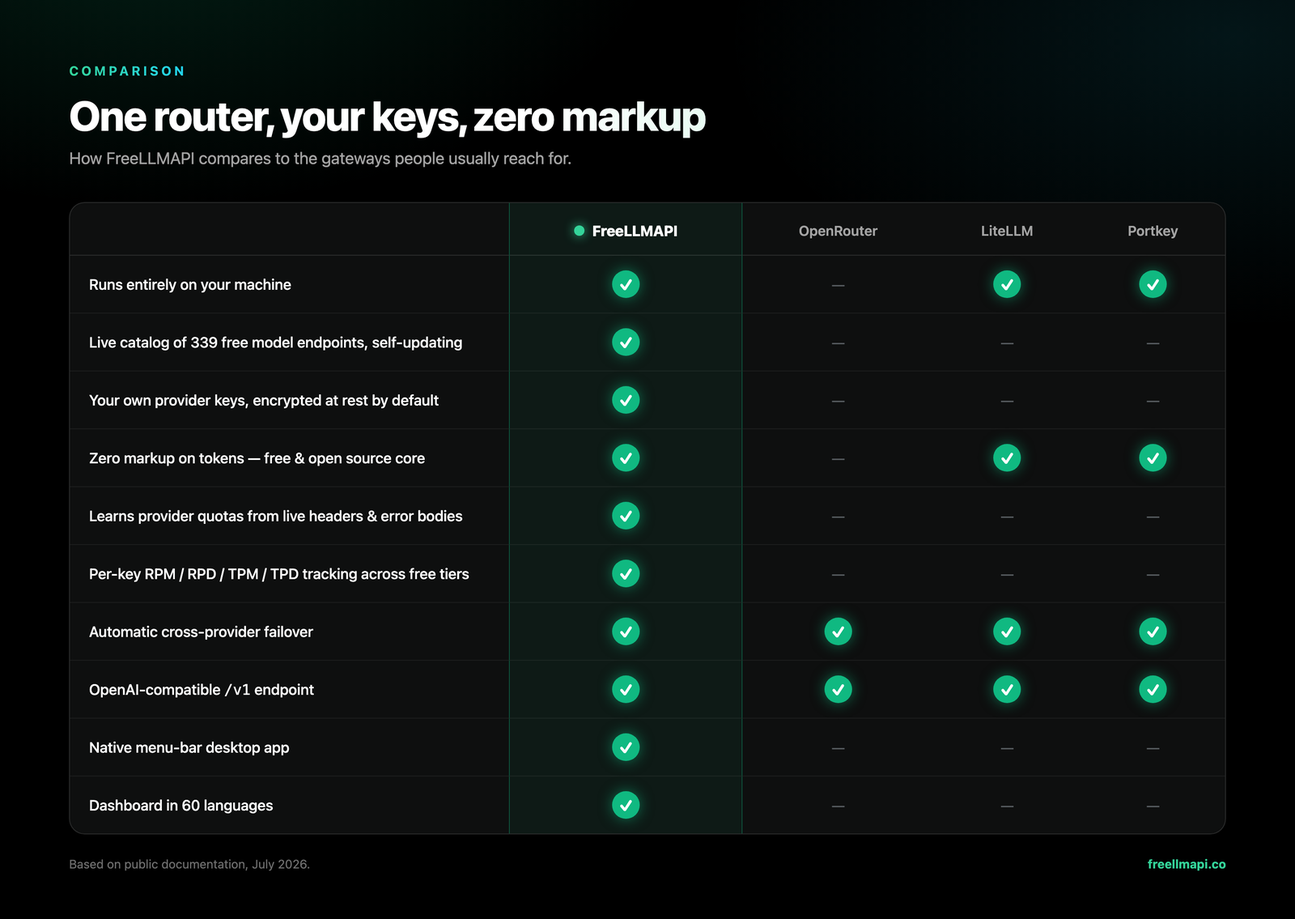
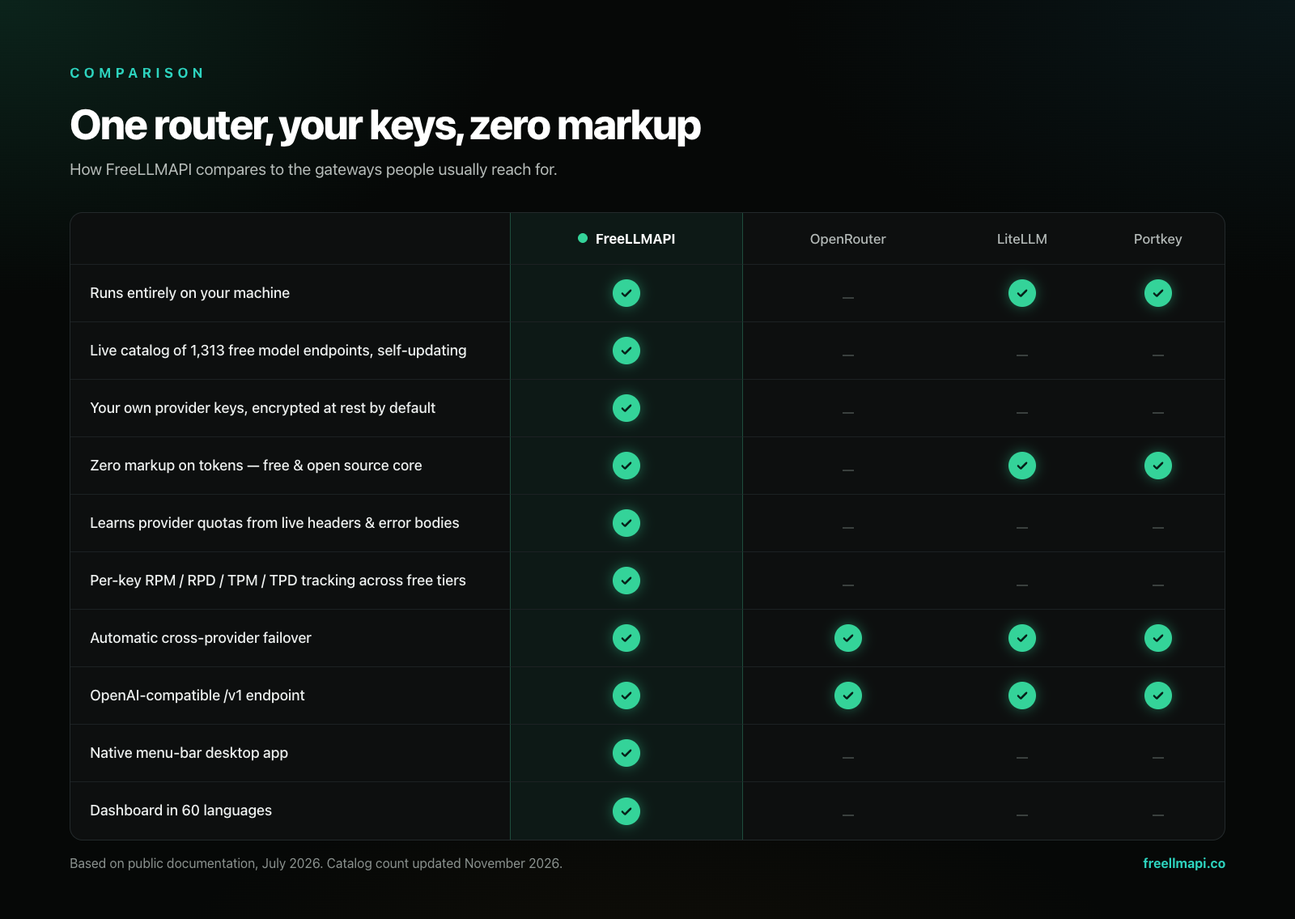
docs: refresh catalog numbers to 10.1B tokens, 87 providers, 1,313 endpoints (#1919)
Updates the headline figures in the README (all five languages), the
architecture overview, and the four README graphics plus their Turkish
versions, from the live catalog 2026.11.12:

- 10.1 billion tokens/month: sum of every live-catalog row's listed
  monthlyTokenBudget (same per-endpoint method as the earlier 4B and 7.4B
  figures).
- 87 providers / 1,313 endpoints: /v1/meta live.inventory, matching the
  freellmapi.co homepage tiles.
- 736 model families (grouped by model name across all entry types).

Also fixes the stale 28-provider / ~4B / 339-endpoint figures that were
still baked into features.png, comparison.png and router-flow.png.

diff --git a/README.ru.md b/README.ru.md
@@ -2,7 +2,7 @@
 
 # FreeLLMAPI
 
-**7,4 миллиарда токенов в месяц. 34 бесплатных LLM-провайдера. 635 бесплатных модельных эндпоинтов. Один OpenAI-совместимый API.**
+**10,1 миллиарда токенов в месяц. 87 бесплатных LLM-провайдеров. 1313 бесплатных модельных эндпоинтов. Один OpenAI-совместимый API.**
 
 Объединяйте бесплатные тарифы десятков провайдеров, а также собственные OpenAI-совместимые эндпоинты для чата, эмбеддингов, генерации изображений и работы с аудио через единый API `/v1`. Ключи хранятся в зашифрованном виде. Маршрутизатор выбирает наиболее подходящую доступную модель, при ограничении запросов переключается на другого провайдера и учитывает расход по каждому ключу, помогая соблюдать бесплатные квоты.
 
@@ -13,7 +13,7 @@
 [![Docker image](https://img.shields.io/badge/ghcr.io-freellmapi-2496ED?logo=docker&logoColor=white)](https://github.com/tashfeenahmed/freellmapi/pkgs/container/freellmapi)
 [![Ask DeepWiki](https://img.shields.io/badge/DeepWiki-Ask-blue)](https://deepwiki.com/tashfeenahmed/freellmapi)
 
-**[freellmapi.co](https://freellmapi.co/?utm_source=github&utm_medium=readme&utm_campaign=repository&utm_content=readme_top)** · полный каталог: 474 семейства моделей и 635 бесплатных эндпоинтов
+**[freellmapi.co](https://freellmapi.co/?utm_source=github&utm_medium=readme&utm_campaign=repository&utm_content=readme_top)** · полный каталог: 736 семейств моделей и 1313 бесплатных эндпоинтов
 
 [English](README.md) · [Türkçe](README.tr.md) · [简体中文](README.zh-cn.md) · **Русский** · [O'zbekcha](README.uz.md)
 
@@ -61,13 +61,13 @@
 
 ## Зачем нужен FreeLLMAPI
 
-Крупные разработчики ИИ предлагают бесплатные тарифы: иногда это миллионы токенов в месяц и тысячи запросов в день. У каждого отдельно квота невелика, но в совокупности получается около **7,4 миллиарда токенов в месяц** для **474 семейств моделей и 635 эндпоинтов провайдеров**, от небольших быстрых моделей до более мощных.
+Крупные разработчики ИИ предлагают бесплатные тарифы: иногда это миллионы токенов в месяц и тысячи запросов в день. У каждого отдельно квота невелика, но в совокупности получается около **10,1 миллиарда токенов в месяц** для **736 семейств моделей и 1313 эндпоинтов провайдеров**, от небольших быстрых моделей до более мощных.
 
-Управлять таким количеством сервисов вручную неудобно: 34 SDK, 34 набора ограничений и столько же потенциальных точек отказа. FreeLLMAPI объединяет всё в одном OpenAI-совместимом API. Достаточно направить клиентскую библиотеку OpenAI на локальный сервер, и запросы будут распределяться между провайдерами, для которых вы добавили ключи.
+Управлять таким количеством сервисов вручную неудобно: 87 SDK, 87 наборов ограничений и столько же потенциальных точек отказа. FreeLLMAPI объединяет всё в одном OpenAI-совместимом API. Достаточно направить клиентскую библиотеку OpenAI на локальный сервер, и запросы будут распределяться между провайдерами, для которых вы добавили ключи.
 
 Бесплатные тарифы постоянно меняются: модели появляются и исчезают, ограничения корректируются. FreeLLMAPI автоматически загружает подписанный каталог с [freellmapi.co](https://freellmapi.co), поэтому данные обновляются без `git pull`. О различиях в скорости обновления рассказывается в разделе [Premium и оперативный каталог](#premium-и-оперативный-каталог).
 
-![Объединение бесплатных тарифов: около 7,4 млрд токенов в месяц от 34 провайдеров](repo-assets/free-tier.png)
+![Объединение бесплатных тарифов: около 10,1 млрд токенов в месяц от 87 провайдеров](repo-assets/free-tier.png)
 
 ## Поддерживаемые провайдеры
 
@@ -95,7 +95,7 @@
 </tr>
 </table>
 
-<i>… и ещё 22 бесплатных провайдера</i>
+<i>… и ещё 75 бесплатных провайдеров</i>
 
 </div>
 
@@ -213,7 +213,7 @@ FreeLLMAPI рассчитан прежде всего на локальное и
 
 Маршрутизатор поддерживает каталог моделей в актуальном состоянии: дважды в день скачивает подписанный каталог с [freellmapi.co](https://freellmapi.co) и обновляет локальную БД новыми моделями, изменениями квот и исправлениями особенностей провайдеров. Ваши настройки включения/отключения моделей и пользовательские провайдеры остаются нетронутыми. Каждая загрузка перед применением проверяется закреплённым ключом Ed25519.
 
-В каталоге представлены **34 провайдера**, **474 семейства моделей**, **635 бесплатных сочетаний провайдер/модель** (584 для чата, 41 для эмбеддингов, 7 для транскрибации и 3 для видео), а заявленная общая бесплатная ёмкость составляет примерно **7,4 миллиарда токенов в месяц**. Полный список: **[freellmapi.co/models](https://freellmapi.co/models.html)**.
+В каталоге представлены **87 провайдеров**, **736 семейств моделей**, **1313 бесплатных сочетаний провайдер/модель** (1137 для чата, 29 для изображений, 41 для аудио, 68 для эмбеддингов, 19 для транскрибации, 6 для видео и 13 для принятия решений), а заявленная общая бесплатная ёмкость составляет примерно **10,1 миллиарда токенов в месяц**. Полный список: **[freellmapi.co/models](https://freellmapi.co/models.html)**.
 
 Бесплатные установки получают тот же подписанный каталог, но из ежемесячного снимка. Новая модель появляется там спустя 30 дней после оперативного каталога, поэтому бесплатная версия сейчас отстаёт примерно на 303 модели. Ничего не отключается и не истекает: обновления просто приходят позже.
 

diff --git a/README.tr.md b/README.tr.md
@@ -2,7 +2,7 @@
 
 # FreeLLMAPI
 
-**Ayda 7,4 milyar token. 34 ücretsiz LLM sağlayıcısı. 635 ücretsiz model uç noktası. OpenAI uyumlu tek bir uç nokta.**
+**Ayda 10,1 milyar token. 87 ücretsiz LLM sağlayıcısı. 1.313 ücretsiz model uç noktası. OpenAI uyumlu tek bir uç nokta.**
 
 Onlarca sağlayıcının ücretsiz kullanım kotalarını ve özel OpenAI uyumlu sohbet, gömme (embedding), görüntü ve ses uç noktalarını tek bir `/v1` API’sinde birleştirin. Anahtarlar şifreli saklanır. Yönlendirici, her istek için kullanılabilir en iyi modeli seçer; bir sağlayıcı hız sınırına ulaştığında sıradakine geçer ve ücretsiz kotaları aşmamak için kullanımı anahtar bazında izler.
 
@@ -13,7 +13,7 @@ Onlarca sağlayıcının ücretsiz kullanım kotalarını ve özel OpenAI uyumlu
 [![Docker image](https://img.shields.io/badge/ghcr.io-freellmapi-2496ED?logo=docker&logoColor=white)](https://github.com/tashfeenahmed/freellmapi/pkgs/container/freellmapi)
 [![Ask DeepWiki](https://img.shields.io/badge/DeepWiki-Ask-blue)](https://deepwiki.com/tashfeenahmed/freellmapi)
 
-**[freellmapi.co](https://freellmapi.co/?utm_source=github&utm_medium=readme&utm_campaign=repository&utm_content=readme_top)** · tüm kataloğa göz atın: 474 model ailesi, 635 ücretsiz uç nokta
+**[freellmapi.co](https://freellmapi.co/?utm_source=github&utm_medium=readme&utm_campaign=repository&utm_content=readme_top)** · tüm kataloğa göz atın: 736 model ailesi, 1.313 ücretsiz uç nokta
 
 [English](README.md) · **Türkçe** · [简体中文](README.zh-cn.md) · [Русский](README.ru.md) · [O'zbekcha](README.uz.md)
 
@@ -60,13 +60,13 @@ Yönlendiriciniz model kataloğunu imzalı bir akıştan kendisi günceller: yen
 
 ## Neden geliştirildi?
 
-Günümüzde önde gelen yapay zekâ laboratuvarları ayda birkaç milyon token, günde birkaç bin istek sunan ücretsiz planlar sağlıyor. Tek başlarına sınırlı olsalar da bir araya geldiklerinde, küçük ve hızlı modellerden oldukça yetenekli modellere kadar **474 model ailesi / 635 sağlayıcı uç noktası** üzerinden **ayda yaklaşık 7,4 milyar token** çıkarım kapasitesine ulaşıyorlar.
+Günümüzde önde gelen yapay zekâ laboratuvarları ayda birkaç milyon token, günde birkaç bin istek sunan ücretsiz planlar sağlıyor. Tek başlarına sınırlı olsalar da bir araya geldiklerinde, küçük ve hızlı modellerden oldukça yetenekli modellere kadar **736 model ailesi / 1.313 sağlayıcı uç noktası** üzerinden **ayda yaklaşık 10,1 milyar token** çıkarım kapasitesine ulaşıyorlar.
 
-Bunları elle birleştirmek zahmetli: otuz dört farklı SDK, otuz dört farklı hız sınırı ve bir isteğin başarısız olabileceği otuz dört ayrı yer. FreeLLMAPI hepsini OpenAI uyumlu tek bir uç noktada toplar. Herhangi bir OpenAI istemci kitaplığını yerel sunucunuza yönlendirin; istekler, anahtar eklediğiniz sağlayıcılar arasında istemciye yansımadan yönlendirilir.
+Bunları elle birleştirmek zahmetli: seksen yedi farklı SDK, seksen yedi farklı hız sınırı ve bir isteğin başarısız olabileceği seksen yedi ayrı yer. FreeLLMAPI hepsini OpenAI uyumlu tek bir uç noktada toplar. Herhangi bir OpenAI istemci kitaplığını yerel sunucunuza yönlendirin; istekler, anahtar eklediğiniz sağlayıcılar arasında istemciye yansımadan yönlendirilir.
 
 Ücretsiz planlar da her hafta değişiyor: sağlayıcılar yeni modeller çıkarıyor, eskilerini kaldırıyor ve kotaları haber vermeden değiştiriyor. FreeLLMAPI bunları sizin için takip eder. Yönlendirici, imzalı model kataloğunu [freellmapi.co](https://freellmapi.co) üzerinden kendisi alır; kurulumunuz `git pull` gerekmeden güncel kalır. Güncellemelerin ne kadar hızlı geldiği için [Premium (canlı katalog)](#premium-live-catalog) bölümüne bakın.
 
-![Ücretsiz planlar bir arada — 34 sağlayıcıdan ayda yaklaşık 7,4 milyar token](repo-assets/i18n/tr/free-tier.png)
+![Ücretsiz planlar bir arada — 87 sağlayıcıdan ayda yaklaşık 10,1 milyar token](repo-assets/i18n/tr/free-tier.png)
 
 <a id="supported-providers"></a>
 
@@ -96,7 +96,7 @@ Bunları elle birleştirmek zahmetli: otuz dört farklı SDK, otuz dört farklı
 </tr>
 </table>
 
-<i>… ve 22 ücretsiz sağlayıcı daha</i>
+<i>… ve 75 ücretsiz sağlayıcı daha</i>
 
 </div>
 
@@ -232,7 +232,7 @@ Tam dil listesi [`client/src/i18n/locale-config.ts`](./client/src/i18n/locale-co
 
 Yönlendirici model kataloğunu kendisi güncel tutar: günde iki kez [freellmapi.co](https://freellmapi.co) üzerinden imzalı kataloğu alır, yeni modelleri, kota değişikliklerini ve sağlayıcılara özgü uyumluluk düzeltmelerini yerel veritabanınıza uygular. Etkinleştirme/devre dışı bırakma seçimleriniz ve özel sağlayıcılarınız değişmez. Her indirme uygulanmadan önce sabitlenmiş Ed25519 anahtarıyla doğrulanır.
 
-Katalog şu anda **34 sağlayıcı**, **474 model ailesi**, **635 ücretsiz sağlayıcı/model uç noktası** (584 sohbet, 41 gömme, 7 ses dökümü, 3 video) ve listelenen ücretsiz planlarda **ayda yaklaşık 7,4 milyar token** kapasitesini izler. Tam liste: **[freellmapi.co/models](https://freellmapi.co/models.html)**.
+Katalog şu anda **87 sağlayıcı**, **736 model ailesi**, **1.313 ücretsiz sağlayıcı/model uç noktası** (1.137 sohbet, 29 görsel, 41 ses, 68 gömme, 19 ses dökümü, 6 video, 13 karar) ve listelenen ücretsiz planlarda **ayda yaklaşık 10,1 milyar token** kapasitesini izler. Tam liste: **[freellmapi.co/models](https://freellmapi.co/models.html)**.
 
 Ücretsiz kurulumlar aynı imzalı kataloğun aylık anlık görüntüsünü alır. Bir model, canlı akışa eklendikten 30 gün sonra bu görüntüye katılır; bu nedenle ücretsiz sürüm şu anda yaklaşık 303 model geridedir. Hiçbir şeyin süresi dolmaz ve hiçbir özellik kısıtlanmaz; modeller yalnızca daha geç gelir.
 

diff --git a/README.uz.md b/README.uz.md
@@ -2,7 +2,7 @@
 
 # FreeLLMAPI
 
-**Oyiga 7,4 milliard token. 34 ta bepul LLM provayderi. 635 ta bepul model endpointi. OpenAI bilan mos bitta endpoint.**
+**Oyiga 10,1 milliard token. 87 ta bepul LLM provayderi. 1313 ta bepul model endpointi. OpenAI bilan mos bitta endpoint.**
 
 O'nlab provayderlarning bepul tariflarini, shuningdek, OpenAI bilan mos keladigan istalgan chat, embedding, rasm va audio endpointlaringizni bitta `/v1` API orqasida birlashtiring. Kalitlar shifrlangan holda saqlanadi. Router har bir so'rov uchun eng yaxshi mavjud modelni tanlaydi, provayder limitga yetganda keyingisiga o'tadi va har bir kalitning sarfini kuzatib boradi, shunda siz hech bir bepul tarif limitidan oshib ketmaysiz.
 
@@ -13,7 +13,7 @@ O'nlab provayderlarning bepul tariflarini, shuningdek, OpenAI bilan mos keladiga
 [![Docker image](https://img.shields.io/badge/ghcr.io-freellmapi-2496ED?logo=docker&logoColor=white)](https://github.com/tashfeenahmed/freellmapi/pkgs/container/freellmapi)
 [![Ask DeepWiki](https://img.shields.io/badge/DeepWiki-Ask-blue)](https://deepwiki.com/tashfeenahmed/freellmapi)
 
-**[freellmapi.co](https://freellmapi.co/?utm_source=github&utm_medium=readme&utm_campaign=repository&utm_content=readme_top)** · to'liq katalogni ko'ring: 474 ta model oilasi, 635 ta bepul endpoint
+**[freellmapi.co](https://freellmapi.co/?utm_source=github&utm_medium=readme&utm_campaign=repository&utm_content=readme_top)** · to'liq katalogni ko'ring: 736 ta model oilasi, 1313 ta bepul endpoint
 
 [English](README.md) · [Türkçe](README.tr.md) · [简体中文](README.zh-cn.md) · [Русский](README.ru.md) · **O'zbekcha**
 
@@ -60,13 +60,13 @@ Routeringiz model katalogini imzolangan manbadan o'zi yangilaydi: yangi bepul mo
 
 ## Bu loyiha nega kerak
 
-Bugun har bir jiddiy AI laboratoriyasi bepul tarif taklif qiladi: oyiga bir necha million token, kuniga bir necha ming so'rov. Alohida olinganda har bir tarif o'yinchoqdek gap. Lekin ularni birlashtirsangiz, oyiga taxminan **7,4 milliard token** ishchi inference quvvati hosil bo'ladi. Bu kichik va tezkor modellardan tortib ancha qobiliyatlilarigacha bo'lgan **474 ta model oilasi / 635 ta provayder endpointi**ni qamrab oladi.
+Bugun har bir jiddiy AI laboratoriyasi bepul tarif taklif qiladi: oyiga bir necha million token, kuniga bir necha ming so'rov. Alohida olinganda har bir tarif o'yinchoqdek gap. Lekin ularni birlashtirsangiz, oyiga taxminan **10,1 milliard token** ishchi inference quvvati hosil bo'ladi. Bu kichik va tezkor modellardan tortib ancha qobiliyatlilarigacha bo'lgan **736 ta model oilasi / 1313 ta provayder endpointi**ni qamrab oladi.
 
-Muammo shundaki, ularni qo'lda birlashtirish juda og'ir: o'ttiz to'rtta turli SDK, o'ttiz to'rtta turli limit, so'rov xato berishi mumkin bo'lgan o'ttiz to'rtta joy. FreeLLMAPI bularning hammasini OpenAI bilan mos bitta endpointga jamlaydi. Istalgan OpenAI klient kutubxonasini lokal serveringizga yo'naltiring, u esa so'rovlarni siz kalit qo'shgan provayderlar bo'ylab sezdirmasdan taqsimlaydi.
+Muammo shundaki, ularni qo'lda birlashtirish juda og'ir: sakson yettita turli SDK, sakson yettita turli limit, so'rov xato berishi mumkin bo'lgan sakson yettita joy. FreeLLMAPI bularning hammasini OpenAI bilan mos bitta endpointga jamlaydi. Istalgan OpenAI klient kutubxonasini lokal serveringizga yo'naltiring, u esa so'rovlarni siz kalit qo'shgan provayderlar bo'ylab sezdirmasdan taqsimlaydi.
 
 Bundan tashqari, bepul tariflar manzarasi har hafta o'zgaradi: provayderlar ogohlantirmasdan model chiqaradi, eskilarini o'chiradi va limitlarni o'zgartiradi. FreeLLMAPI bularning barchasini siz uchun kuzatib boradi. Router imzolangan model katalogini [freellmapi.co](https://freellmapi.co) dan o'zi tortib oladi, shuning uchun o'rnatmangiz `git pull` qilmasdan ham dolzarb bo'lib turadi. Qanchalik tez yangilanishi haqida [Premium (jonli katalog)](#premium-jonli-katalog) bo'limida o'qing.
 
-![Bepul tariflar birlashtirilganda: 34 ta provayder bo'ylab oyiga ~7,4 mlrd token bepul inference](repo-assets/free-tier.png)
+![Bepul tariflar birlashtirilganda: 87 ta provayder bo'ylab oyiga ~10,1 mlrd token bepul inference](repo-assets/free-tier.png)
 
 ## Qo'llab-quvvatlanadigan provayderlar
 
@@ -94,7 +94,7 @@ Bundan tashqari, bepul tariflar manzarasi har hafta o'zgaradi: provayderlar ogoh
 </tr>
 </table>
 
-<i>… va yana 22 ta bepul provayder</i>
+<i>… va yana 75 ta bepul provayder</i>
 
 </div>
 
@@ -236,9 +236,10 @@ qo'llaydi. Siz o'zingiz yoqqan yoki o'chirgan modellarga va o'z provayderlaringi
 qachon tegilmaydi. Har bir yuklab olingan fayl qo'llanishidan oldin qat'iy belgilangan
 Ed25519 kaliti bilan tekshiriladi.
 
-Hozir katalog **34 ta provayder**, **474 ta model oilasi**, **635 ta bepul provayder/model
-endpointi** (584 ta chat, 41 ta embedding, 7 ta transkripsiya, 3 ta video) va ro'yxatga
-olingan bepul tariflardagi oyiga taxminan **7,4 milliard token** quvvatni kuzatadi. To'liq
+Hozir katalog **87 ta provayder**, **736 ta model oilasi**, **1313 ta bepul provayder/model
+endpointi** (1137 ta chat, 29 ta rasm, 41 ta audio, 68 ta embedding, 19 ta transkripsiya,
+6 ta video, 13 ta qaror) va ro'yxatga olingan bepul tariflardagi oyiga taxminan
+**10,1 milliard token** quvvatni kuzatadi. To'liq
 ro'yxatni **[freellmapi.co/models](https://freellmapi.co/models.html)** da ko'ring.
 
 Bepul o'rnatmalar ham xuddi shu imzolangan katalogni oladi, lekin oylik snapshotdan: model

diff --git a/README.zh-cn.md b/README.zh-cn.md
@@ -2,7 +2,7 @@
 
 # FreeLLMAPI
 
-**每月 74 亿词元。34 家免费 LLM 提供方。635 个免费模型端点。一个 OpenAI 兼容端点。**
+**每月 101 亿词元。87 家免费 LLM 提供方。1,313 个免费模型端点。一个 OpenAI 兼容端点。**
 
 把几十家提供方的免费额度，连同任意自建的 OpenAI 兼容聊天、嵌入、图像和音频端点，一起聚合到单个 `/v1` API 之后。密钥加密存储。路由器为每个请求挑选当前可用的最佳模型，某家提供方触发限流时自动转移到下一家，并按密钥跟踪用量，让你始终待在各家的免费额度之内。
 
@@ -13,7 +13,7 @@
 [![Docker image](https://img.shields.io/badge/ghcr.io-freellmapi-2496ED?logo=docker&logoColor=white)](https://github.com/tashfeenahmed/freellmapi/pkgs/container/freellmapi)
 [![Ask DeepWiki](https://img.shields.io/badge/DeepWiki-Ask-blue)](https://deepwiki.com/tashfeenahmed/freellmapi)
 
-**[freellmapi.co](https://freellmapi.co/?utm_source=github&utm_medium=readme&utm_campaign=repository&utm_content=readme_top)** · 浏览完整目录：474 个模型系列，635 个免费端点
+**[freellmapi.co](https://freellmapi.co/?utm_source=github&utm_medium=readme&utm_campaign=repository&utm_content=readme_top)** · 浏览完整目录：736 个模型系列，1,313 个免费端点
 
 [English](README.md) · [Türkçe](README.tr.md) · **简体中文** · [Русский](README.ru.md) · [O'zbekcha](README.uz.md)
 
@@ -54,13 +54,13 @@
 
 ## 为什么会有这个项目
 
-如今每家正经的 AI 实验室都提供免费额度：每月几百万词元，每天几千次请求。单独看，每一份都只是个玩具。叠加起来，它们合计约 **每月 74 亿词元** 的可用推理能力，覆盖 **474 个模型系列 / 635 个提供方端点**，从小而快的到相当能打的都有。
+如今每家正经的 AI 实验室都提供免费额度：每月几百万词元，每天几千次请求。单独看，每一份都只是个玩具。叠加起来，它们合计约 **每月 101 亿词元** 的可用推理能力，覆盖 **736 个模型系列 / 1,313 个提供方端点**，从小而快的到相当能打的都有。
 
-问题在于手工叠加太痛苦：三十四套不同的 SDK，三十四种不同的限流规则，三十四个请求可能失败的地方。FreeLLMAPI 把这些收拢成一个 OpenAI 兼容端点。把任意 OpenAI 客户端库指向你的本地服务，它就会在你添加过密钥的提供方之间透明路由。
+问题在于手工叠加太痛苦：八十七套不同的 SDK，八十七种不同的限流规则，八十七个请求可能失败的地方。FreeLLMAPI 把这些收拢成一个 OpenAI 兼容端点。把任意 OpenAI 客户端库指向你的本地服务，它就会在你添加过密钥的提供方之间透明路由。
 
 而且免费额度的格局每周都在变：提供方会上线新模型、下线旧模型，并且不打招呼就调整额度。这些 FreeLLMAPI 都替你盯着。路由器会自行从 [freellmapi.co](https://freellmapi.co) 拉取经过签名的模型目录，所以你的部署不用 `git pull` 也能跟上。跟进速度见 [Premium 实时目录](#premium-实时目录)。
 
-![叠加后的免费额度 —— 34 家提供方合计每月约 74 亿词元的免费推理](repo-assets/free-tier.png)
+![叠加后的免费额度 —— 87 家提供方合计每月约 101 亿词元的免费推理](repo-assets/free-tier.png)
 
 ## 支持的提供方
 
@@ -88,7 +88,7 @@
 </tr>
 </table>
 
-<i>…… 以及另外 22 家免费提供方</i>
+<i>…… 以及另外 75 家免费提供方</i>
 
 </div>
 
@@ -235,7 +235,7 @@ FreeLLMAPI 在设计上是本地优先、单用户的。你的提供方密钥留
 
 路由器会自行保持模型目录的新鲜：它每天两次从 [freellmapi.co](https://freellmapi.co) 拉取经过签名的目录，把新模型、额度变更和提供方的怪癖修复应用到你的本地数据库。你自己的启用/停用选择和自定义提供方永远不会被动到，而且每次下载在应用之前都会用固定的 Ed25519 公钥验签。
 
-目录目前收录 **34 家提供方**、**474 个模型系列**、**635 个免费提供方/模型端点**（584 个聊天、41 个嵌入、7 个转录、3 个视频），以及大约 **每月 74 亿词元** 的免费额度容量。完整内容可在 **[freellmapi.co/models](https://freellmapi.co/models.html)** 浏览。
+目录目前收录 **87 家提供方**、**736 个模型系列**、**1,313 个免费提供方/模型端点**（1,137 个聊天、29 个图像、41 个音频、68 个嵌入、19 个转录、6 个视频、13 个决策），以及大约 **每月 101 亿词元** 的免费额度容量。完整内容可在 **[freellmapi.co/models](https://freellmapi.co/models.html)** 浏览。
 
 Premium 让这份签名目录在你运行的每一个路由器上保持实时。当某家提供方上线了一个强力的免费模型、悄悄收紧了额度，或者改坏了协议格式，订阅了实时源的路由器会在我们发布的第一时间收到更新。
 

diff --git a/README.md b/README.md
@@ -2,7 +2,7 @@
 
 # FreeLLMAPI
 
-**7.4 billion tokens per month.  34 free LLM providers. 635 free model endpoints. One OpenAI-compatible endpoint.**
+**10.1 billion tokens per month.  87 free LLM providers. 1,313 free model endpoints. One OpenAI-compatible endpoint.**
 
 Aggregate free tiers from dozens of providers, plus custom OpenAI-compatible chat, embedding, image, and audio endpoints, behind a single `/v1` API. Keys are stored encrypted. A router picks the best available model for each request, falls over to the next provider when one is rate-limited, and tracks per-key usage so you stay under every free-tier cap.
 
@@ -13,7 +13,7 @@ Aggregate free tiers from dozens of providers, plus custom OpenAI-compatible cha
 [![Docker image](https://img.shields.io/badge/ghcr.io-freellmapi-2496ED?logo=docker&logoColor=white)](https://github.com/tashfeenahmed/freellmapi/pkgs/container/freellmapi)
 [![Ask DeepWiki](https://img.shields.io/badge/DeepWiki-Ask-blue)](https://deepwiki.com/tashfeenahmed/freellmapi)
 
-**[freellmapi.co](https://freellmapi.co/?utm_source=github&utm_medium=readme&utm_campaign=repository&utm_content=readme_top)** · browse the full catalog: 474 model families, 635 free endpoints
+**[freellmapi.co](https://freellmapi.co/?utm_source=github&utm_medium=readme&utm_campaign=repository&utm_content=readme_top)** · browse the full catalog: 736 model families, 1,313 free endpoints
 
 **English** · [Türkçe](README.tr.md) · [简体中文](README.zh-cn.md) · [Русский](README.ru.md) · [O'zbekcha](README.uz.md)
 
@@ -59,13 +59,13 @@ Your router updates its own model catalog from a signed feed: new free models, q
 
 ## Why this exists
 
-Every serious AI lab now offers a free tier, a few million tokens a month, a few thousand requests a day. On its own each tier is a toy. Stacked together, they add up to roughly **7.4 billion tokens per month** of working inference capacity, across **474 model families / 635 provider endpoints** from small-and-fast to reasonably capable.
+Every serious AI lab now offers a free tier, a few million tokens a month, a few thousand requests a day. On its own each tier is a toy. Stacked together, they add up to roughly **10.1 billion tokens per month** of working inference capacity, across **736 model families / 1,313 provider endpoints** from small-and-fast to reasonably capable.
 
-The problem is that stacking them by hand is painful: thirty-four different SDKs, thirty-four different rate limits, thirty-four places a request can fail. FreeLLMAPI collapses that into one OpenAI-compatible endpoint. Point any OpenAI client library at your local server, and it routes transparently across whichever providers you've added keys for.
+The problem is that stacking them by hand is painful: eighty-seven different SDKs, eighty-seven different rate limits, eighty-seven places a request can fail. FreeLLMAPI collapses that into one OpenAI-compatible endpoint. Point any OpenAI client library at your local server, and it routes transparently across whichever providers you've added keys for.
 
 And the free-tier landscape shifts weekly: providers launch models, retire them, and change quotas without notice. FreeLLMAPI tracks all of that for you. The router pulls a signed model catalog from [freellmapi.co](https://freellmapi.co) on its own, so your install keeps up without a `git pull`. See [Premium (live catalog)](#premium-live-catalog) for how fast it keeps up.
 
-![The free tier, stacked — ~7.4B tokens of free inference per month across 34 providers](repo-assets/free-tier.png)
+![The free tier, stacked — ~10.1B tokens of free inference per month across 87 providers](repo-assets/free-tier.png)
 
 ## Supported providers
 
@@ -93,7 +93,7 @@ And the free-tier landscape shifts weekly: providers launch models, retire them,
 </tr>
 </table>
 
-<i>… and 22 more free providers</i>
+<i>… and 75 more free providers</i>
 
 </div>
 
@@ -234,10 +234,10 @@ quota changes, and provider quirk fixes to your local DB. Your own
 enable/disable choices and custom providers are never touched, and every
 download is verified against a pinned Ed25519 key before it is applied.
 
-The catalog currently tracks **34 providers**, **474 model families**, **635
-free provider/model endpoints** (584 chat, 41 embeddings, 7 transcription, 3
-video), and roughly **7.4 billion tokens per month** of listed free-tier
-capacity. Browse the full set at
+The catalog currently tracks **87 providers**, **736 model families**, **1,313
+free provider/model endpoints** (1,137 chat, 29 image, 41 audio, 68 embeddings,
+19 transcription, 6 video, 13 decision), and roughly **10.1 billion tokens per
+month** of listed free-tier capacity. Browse the full set at
 **[freellmapi.co/models](https://freellmapi.co/models.html)**.
 
 Free installs pull the same signed catalog, but from the monthly snapshot: a

diff --git a/docs/zh-cn/architecture/00-high-level-index.md b/docs/zh-cn/architecture/00-high-level-index.md
@@ -4,7 +4,7 @@
 
 [← 返回 README](../../../README.zh-cn.md) · [文档索引](../README.md) · [深入解析域](OVERVIEW.md)
 
-FreeLLMAPI 是一个自托管的、兼容 OpenAI 的网关，把约 34 家提供方的免费额度叠加在一个 `freellmapi-…` Bearer 令牌之后。一个 Express 代理暴露 `/v1/chat/completions`（以及 `/v1/responses`、`/v1/messages`、`/v1/completions`、`/v1/embeddings` 和 `/v1/models`）；每次请求时，路由器挑选一个状态健康、且未触及任何限流的最佳模型，在内存中解密其上游密钥，再把响应流式传回。
+FreeLLMAPI 是一个自托管的、兼容 OpenAI 的网关，把约 87 家提供方的免费额度叠加在一个 `freellmapi-…` Bearer 令牌之后。一个 Express 代理暴露 `/v1/chat/completions`（以及 `/v1/responses`、`/v1/messages`、`/v1/completions`、`/v1/embeddings` 和 `/v1/models`）；每次请求时，路由器挑选一个状态健康、且未触及任何限流的最佳模型，在内存中解密其上游密钥，再把响应流式传回。
 
 没有哪一家的免费额度足以单独支撑日常使用，所以路由器把目录当作一条汇聚的回退链来对待：通过 Thompson 采样的老虎机算法实时评估可靠性、速度、能力和余量，用持久化账本执行 RPM/RPD/TPM/TPD 与提供方级上限，并在墙钟预算内跨最多 20 次尝试进行故障转移。当链路顶端的模型耗尽当日额度时，端点会平滑降级到下一档健康模型，并在 UTC 午夜重置。
 
@@ -37,7 +37,7 @@ FreeLLMAPI 是一个自托管的、兼容 OpenAI 的网关，把约 34 家提供
                                           │
    ┌──────────────┬────────────┬──────────┴─────────┬─────────────┬──────────┐
    ▼              ▼            ▼                    ▼             ▼          ▼
- Google         Groq        Cerebras           OpenRouter        HF       …29 more
+ Google         Groq        Cerebras           OpenRouter        HF       …82 more
 ```
 
 - **路由器**（`server/src/services/router.ts`）—— 为每次请求挑选模型。

diff --git a/docs/en/architecture/00-high-level-index.md b/docs/en/architecture/00-high-level-index.md
@@ -4,7 +4,7 @@
 
 [← Back to README](../../../README.md) · [Documentation index](../README.md) · [Deep-dive domain](OVERVIEW.md)
 
-FreeLLMAPI is a self-hosted OpenAI-compatible gateway that stacks the free tiers of ~34 providers behind a single `freellmapi-…` bearer token. An Express proxy exposes `/v1/chat/completions` (plus `/v1/responses`, `/v1/messages`, `/v1/completions`, `/v1/embeddings` and `/v1/models`) and, per request, the router selects the best healthy model that is under all of its rate limits, decrypts its upstream key in memory, and streams the response back.
+FreeLLMAPI is a self-hosted OpenAI-compatible gateway that stacks the free tiers of ~87 providers behind a single `freellmapi-…` bearer token. An Express proxy exposes `/v1/chat/completions` (plus `/v1/responses`, `/v1/messages`, `/v1/completions`, `/v1/embeddings` and `/v1/models`) and, per request, the router selects the best healthy model that is under all of its rate limits, decrypts its upstream key in memory, and streams the response back.
 
 Because no single free tier is generous enough to live on, the router treats the catalog as a pooled fallback chain: it scores live reliability, speed, capability and headroom via a Thompson-sampling bandit, enforces RPM/RPD/TPM/TPD and provider-wide caps with a persistent ledger, and fails over across up to 20 attempts within a wall-clock budget. When the top of the chain exhausts its daily caps the endpoint gracefully degrades to the next healthy tier and resets at UTC midnight.
 
@@ -37,7 +37,7 @@ See [OVERVIEW.md](OVERVIEW.md) for deep-dives.
                                           │
    ┌──────────────┬────────────┬──────────┴─────────┬─────────────┬──────────┐
    ▼              ▼            ▼                    ▼             ▼          ▼
- Google         Groq        Cerebras           OpenRouter        HF       …29 more
+ Google         Groq        Cerebras           OpenRouter        HF       …82 more
 ```
 
 - **Router** (`server/src/services/router.ts`) — picks a model per request.
